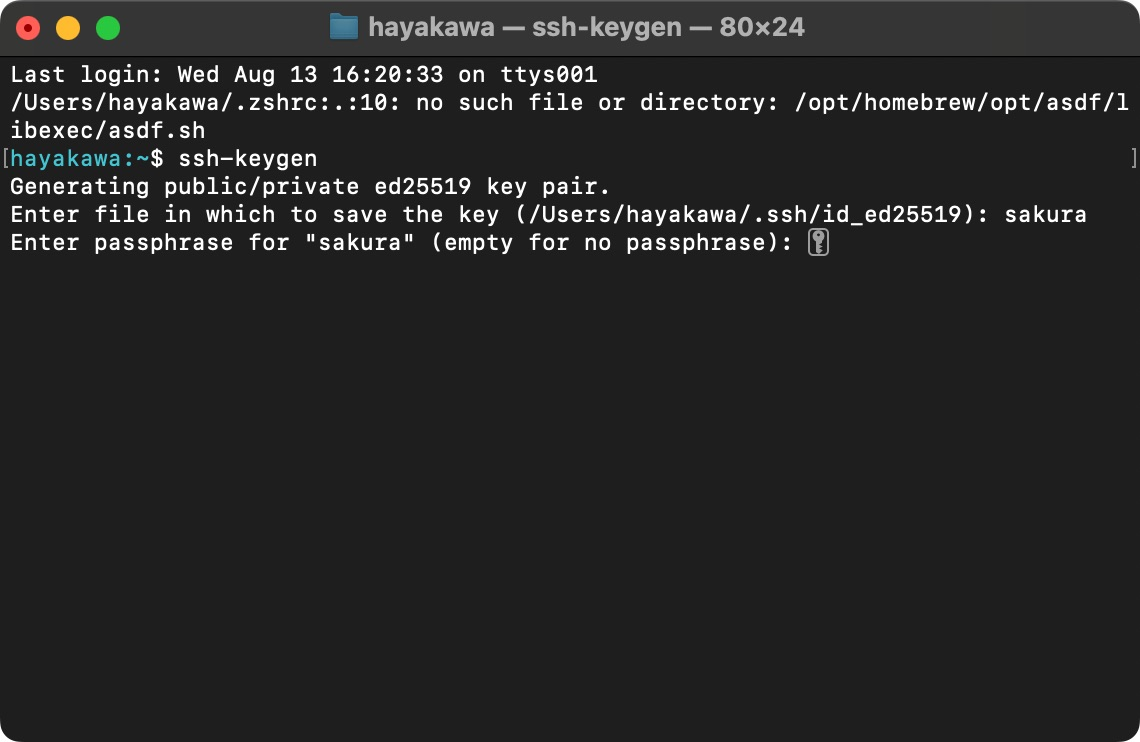
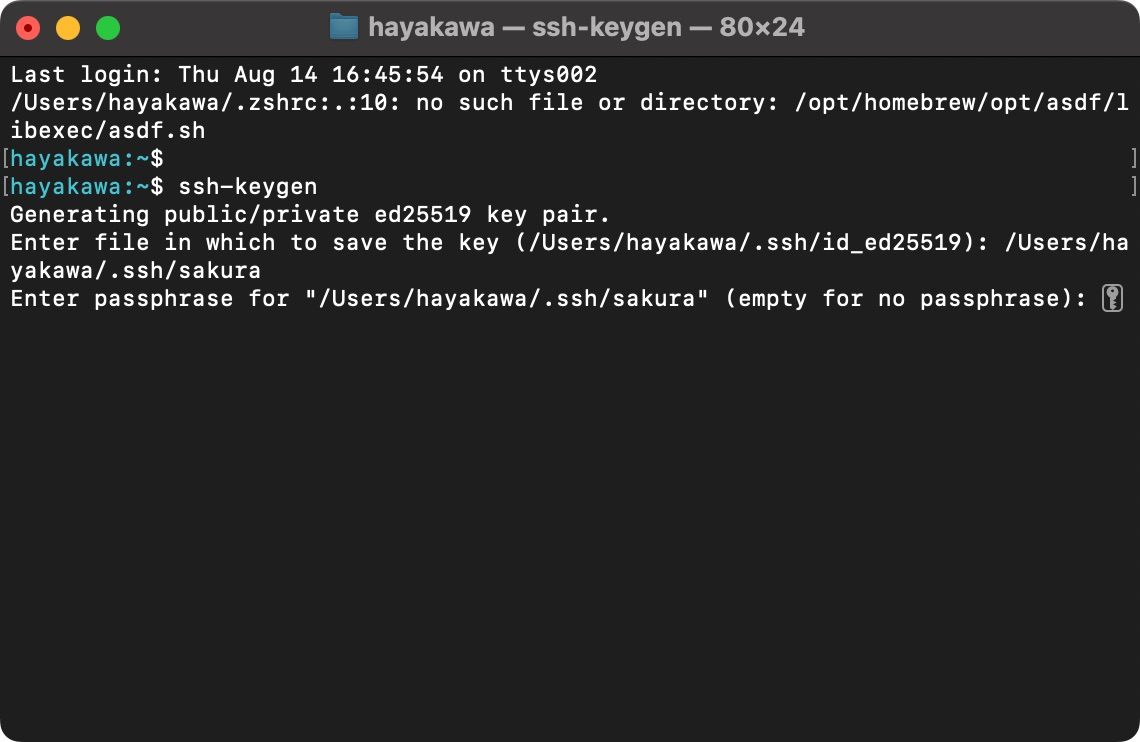
ssh編 winで鍵作成

diff --git a/05_connect_ssh.md b/05_connect_ssh.md
@@ -69,7 +69,7 @@ PowerShellを開きます
 
 ![tail -f /var/log/auth.log](./assets/05/10.jpg)
 
-すると鍵のファイル名を尋ねられます。何も入力せずにEnterを押せば括弧内のファイル名（この例で言えば`id_ed25519`）で作成されます。今回は`sakura`としました。
+すると鍵のファイル名を尋ねられます。何も入力せずにEnterを押せば括弧内のファイル名（この例で言えば`/Users/hayakawa/.ssh`というディレクトリに`id_ed25519`というファイル名）で作成されます。今回はファイル名を`sakura`としました。（パスを指定していないとコマンドを実行した時のカレントディレクトリ直下に作成されてしまうので注意）
 
 ![tail -f /var/log/auth.log](./assets/05/11.jpg)
 
@@ -81,5 +81,11 @@ PowerShellを開きます
 
 ### 公開鍵の生成（Windows）
 ※画面はWindows10です
+
+PowerShellで`C:\Windows\System32\OpenSSH\ssh-keygen`と入力してEnter。
+以降は☝のmacのやり方と同様です。
+
+![tail -f /var/log/auth.log](./assets/05/13.png)
+
 
 ※これらの操作はVPS上ではなくローカルマシン上で行います
